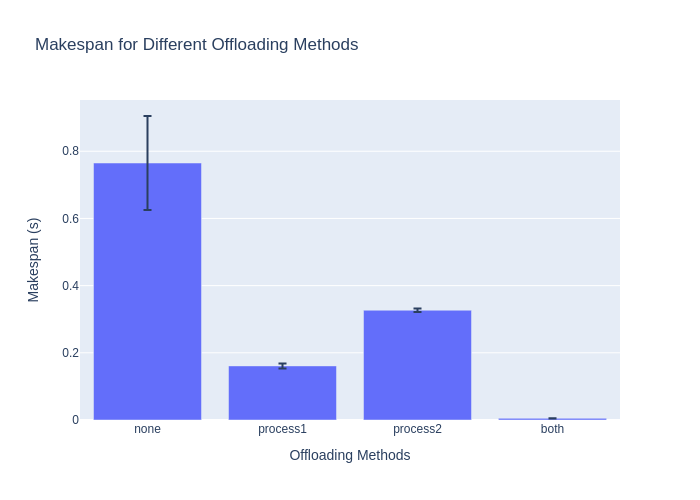
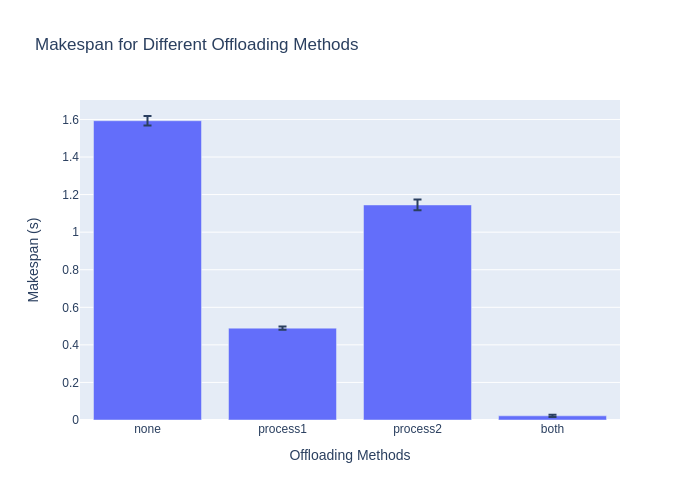
answers questions

diff --git a/README.md b/README.md
@@ -2,13 +2,29 @@
 [Fork](https://docs.github.com/en/get-started/quickstart/fork-a-repo) this repo and clone it to your machine to get started!
 
 ## Team Members
-- team member 1
-- team member 2
+- Fahim Kamal
 
 ## Lab Question Answers
 
-Question 1: ...
+Question 1: Under what circumstances do you think it will be worthwhile to offload one or both
+of the processing tasks to your PC? And conversely, under what circumstances will it not be
+worthwhile?
+It will be worthwhile to offload some of the processing tasks to the PC if the time it takes
+the PC to execute the code is faster than that of the RPI. This is especially true if are computation is on 
+a large input of data. As seen in the makespan.png, the time it takes to do both tasks on the RPI is about
+1.6 seconds. Offloading both processes to the computer takes less than 0.1 seconds. As the input sizes to these functions grows, the differences between the time it takes on the RPI vs the computer will also grow. Thus, it is shown that it is worthwhile to offload both processing tasks. 
 
-Answer: ...
+Question 2: Why do we need to join the thread here?
+We need to join the thread to prevent the code from executing further until we have received the computation from the server. After the thread is joined, we can use both data1 and data2 in our final_process. We could not have executed further without having both of these arguments so it was important to join the thread.
 
-Question 2: ...
+Question 3: Are the processing functions executing in parallel or just concurrently? What is the difference?The processing functions are executing concurrently because threads execute concurrently.This means that the CPU is able to start and stop these processes very quickly, and is able to switch between them. This results in a speed up of our computation. Executing in parallel would mean that the processes would run on seperate cores or processors where they would actually be occuring at the same time. 
+
+Question 4: What is the best offloading mode? Why do you think that is?
+The best offloading mode is 'both' because it has the fastest time of execution. I believe this is because my local machine has a better processor/more ram so it is more quickly able to execute instructions.
+
+Question 5: What is the worst offloading mode? Why do you think that is?
+The worst offloading mode is 'none' because it has the slowest time of execution. I believe this is because the RPI is less computationally powerful than a laptop because of the CPU/ram decisions they had to make for the RPI to be modular. 
+
+Question 6: The processing functions in the example aren't very likely to be used in a real-world application. What kind of processing functions would be more likely to be used in a real-world application? When would you want to offload these functions to a server?
+I think processing functions that require a lot of computational power or are memory intensive are likely to be used in a real-world application. Some examples may be a database or a machine learning model. Instead of hosting these applications on a embedded device with limited resources, it would be better to do the computation/querying on a server and let the embedded devicee access these resources by making HTTP requests.
+
